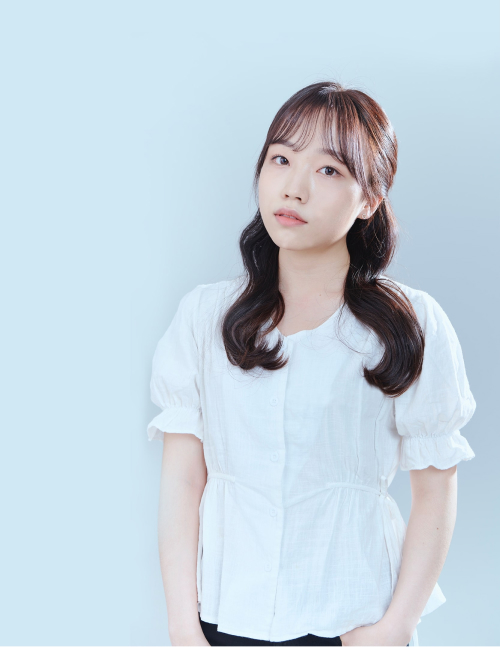
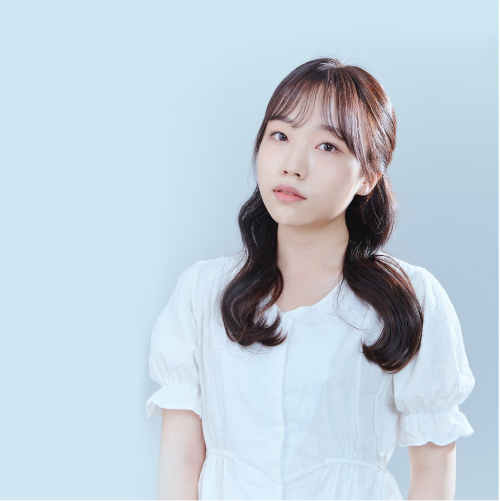
chore: modify member card

Changed region(s): [[0.3, 0.0898, 0.96, 1.0], [0.99, 0.0, 1.0, 1.0], [0.33, 0.5389, 0.36, 0.5988]]

diff --git a/src/components/common/MemberCard/index.tsx b/src/components/common/MemberCard/index.tsx
@@ -1,52 +1,42 @@
 import React, { useState } from 'react';
+import { theme } from '../../../styles/theme';
 import styled, { css } from 'styled-components';
 import { AnimatePresence, LayoutGroup, motion } from 'framer-motion';
 import { IMemberCardType } from '../../../types/member';
+import { positionColorHandler } from '../../../utils/positionColorHandler';
+import { colors } from '../../../styles/colors';
 
 const MemberCardContainer = styled(motion.div)`
   position: relative;
   width: 250px;
   height: 300px;
+  border-radius: 16px;
+  overflow: hidden;
 `;
 const MemberCardInner = styled(motion.div)`
   position: relative;
   width: 100%;
   height: 100%;
-  padding: 30px;
   box-sizing: border-box;
-  overflow: hidden;
   cursor: pointer;
-  border-radius: 16px;
+  display: flex;
+  align-items: center;
+  justify-content: center;
 `;
-const MemberCardImage = styled(motion.div)<{
-  image: string;
-  isClicked: boolean;
-}>`
+const MemberCardImage = styled(motion.img)`
   position: absolute;
-  top: 0;
-  left: 0;
   z-index: -1;
-  width: 250px;
   height: 300px;
-  background-image: url(${({ image }) => image});
-  -webkit-background-size: cover;
-  background-size: cover;
-  border-radius: 16px;
-  transition: all 0.2s ease-in-out;
-
-  ${({ isClicked }) =>
-    isClicked &&
-    css`
-      -webkit-filter: blur(10px) brightness(0.6);
-    `}
+  background-position-x: 50%;
+  background-position-y: 50%;
 `;
-const Position = styled(motion.p)`
+const Position = styled(motion.p)<{ positionColor?: string }>`
   height: 24px;
   margin: 0 0 8px 0;
   overflow-y: hidden;
   font-size: ${({ theme }) => theme.fontSize.body2};
   line-height: 24px;
-  color: ${({ theme }) => theme.colors.googleYellow};
+  color: ${({ positionColor }) => positionColor};
 `;
 const Nickname = styled(motion.p)`
   height: 24px;
@@ -69,13 +59,33 @@ const Role = styled(motion.p)`
   overflow-y: hidden;
   font-size: ${({ theme }) => theme.fontSize.body2};
   line-height: 24px;
-  color: ${({ theme }) => theme.colors.yellow200};
+  color: ${({ theme }) => theme.colors.tossBlue};
 `;
 const CardText = styled(motion.div)`
   margin-top: 8px;
   font-size: ${({ theme }) => theme.fontSize.body1};
   color: ${({ theme }) => theme.colors.white};
   display: block;
+`;
+const CardTextWrapper = styled(motion.div)<{ isClicked: boolean }>`
+  position: absolute;
+  padding: 30px;
+  top: 0;
+  left: 0;
+  width: 100%;
+  height: 100%;
+  background: linear-gradient(
+    0deg,
+    rgba(0, 0, 0, 0) 0%,
+    rgba(0, 0, 0, 0) 50%,
+    rgba(0, 0, 0, 0.6) 100%
+  );
+  ${({ isClicked }) =>
+    isClicked &&
+    css`
+      background: rgba(0, 0, 0, 0.4);
+      backdrop-filter: blur(2px);
+    `}
 `;
 const memberCardAnimate = {
   hidden: {
@@ -99,6 +109,7 @@ const MemberCard: React.FC<IMemberCardType> = ({
   name,
 }) => {
   const [isClicked, setIsClicked] = useState(false);
+  console.log(positionColorHandler('UX/UI Designer'));
   return (
     <AnimatePresence>
       <LayoutGroup>
@@ -111,38 +122,48 @@ const MemberCard: React.FC<IMemberCardType> = ({
         >
           {!isClicked ? (
             <MemberCardInner layoutId={`member-card-inner-${id}`}>
+              <CardTextWrapper isClicked={isClicked}>
+                <Nickname layoutId={`member-nickname-${id}`}>
+                  {nickname}
+                </Nickname>
+                <Name layoutId={`member-name-${id}`}>{name}</Name>
+                <Role
+                  layoutId={`member-role-${id}`}
+                  variants={memberCardAnimate}
+                >
+                  {role}
+                </Role>
+              </CardTextWrapper>
               <MemberCardImage
-                image={image}
-                isClicked={false}
+                src={image}
                 layoutId={`member-background-${id}`}
               />
-              <Nickname layoutId={`member-nickname-${id}`}>{nickname}</Nickname>
-              <Name layoutId={`member-name-${id}`}>{name}</Name>
-              <Role layoutId={`member-role-${id}`} variants={memberCardAnimate}>
-                {role}
-              </Role>
             </MemberCardInner>
           ) : (
             <MemberCardInner layoutId={`member-card-inner-${id}`}>
+              <CardTextWrapper isClicked={isClicked}>
+                <Position
+                  layoutId={`member-position-${id}`}
+                  variants={memberCardAnimate}
+                  positionColor={positionColorHandler(position)}
+                >
+                  {position}
+                </Position>
+                <Nickname layoutId={`member-nickname-${id}`}>
+                  {nickname}
+                </Nickname>
+                <Name layoutId={`member-name-${id}`}>{name}</Name>
+                <CardText
+                  layoutId={`member-text-${id}`}
+                  variants={memberCardAnimate}
+                >
+                  {cardText}
+                </CardText>
+              </CardTextWrapper>
               <MemberCardImage
-                image={image}
-                isClicked={isClicked}
+                src={image}
                 layoutId={`member-background-${id}`}
               />
-              <Position
-                layoutId={`member-position-${id}`}
-                variants={memberCardAnimate}
-              >
-                {position}
-              </Position>
-              <Nickname layoutId={`member-nickname-${id}`}>{nickname}</Nickname>
-              <Name layoutId={`member-name-${id}`}>{name}</Name>
-              <CardText
-                layoutId={`member-text-${id}`}
-                variants={memberCardAnimate}
-              >
-                {cardText}
-              </CardText>
             </MemberCardInner>
           )}
         </MemberCardContainer>

diff --git a/src/utils/positionColorHandler.ts b/src/utils/positionColorHandler.ts
@@ -1,0 +1,21 @@
+import { theme } from '../styles/theme';
+
+export const position = {
+  frontend: theme.colors.googleBlue,
+  backend: theme.colors.googleRed,
+  android: theme.colors.googleGreen,
+  beginner: theme.colors.orange900,
+  designer: theme.colors.googleYellow,
+  // ml: 'Machine Learning',
+} as const;
+export function positionColorHandler(input: string) {
+  const positionKey = Object.keys(position);
+  const inputToLowerCase = input.toLowerCase();
+  let result = '#fff';
+  positionKey.map((key) => {
+    if (inputToLowerCase.includes(key)) {
+      result = position[key as keyof typeof position];
+    }
+  });
+  return result;
+}

diff --git a/src/styles/colors.ts b/src/styles/colors.ts
@@ -36,6 +36,17 @@ export const assetRed = {
   red600: '#F44336',
   tossRed: '#f44336',
 };
+export const assetOrange = {
+  orange100: '#FFF3E0',
+  orange200: '#FFE0B2',
+  orange300: '#FFCC80',
+  orange400: '#FFB74D',
+  orange500: '#FFA726',
+  orange600: '#FF9800',
+  orange700: '#FB8C00',
+  orange800: '#F57C00',
+  orange900: '#FF740F',
+};
 export const assetBlue = {
   blue100: '#E3F2FD',
   blue200: '#BBDEFB',
@@ -60,6 +71,7 @@ export const primaryColor = {
   ...assetYellow,
   ...assetRed,
   ...assetBlue,
+  ...assetOrange,
   ...googleLogoColor,
 };
 
